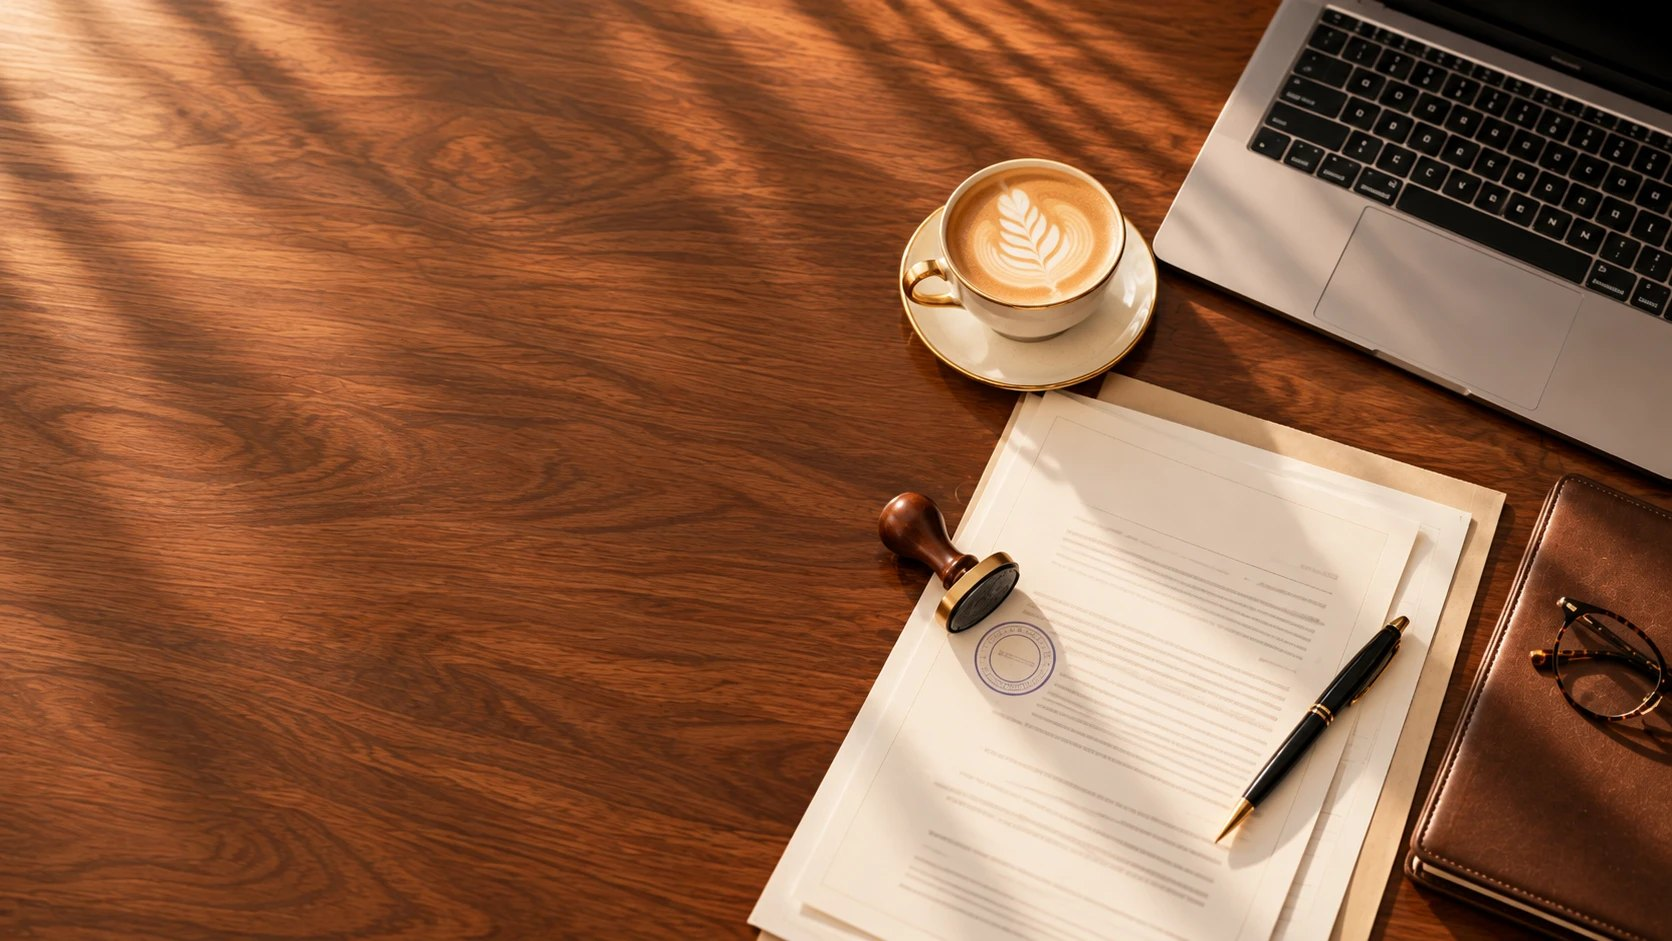
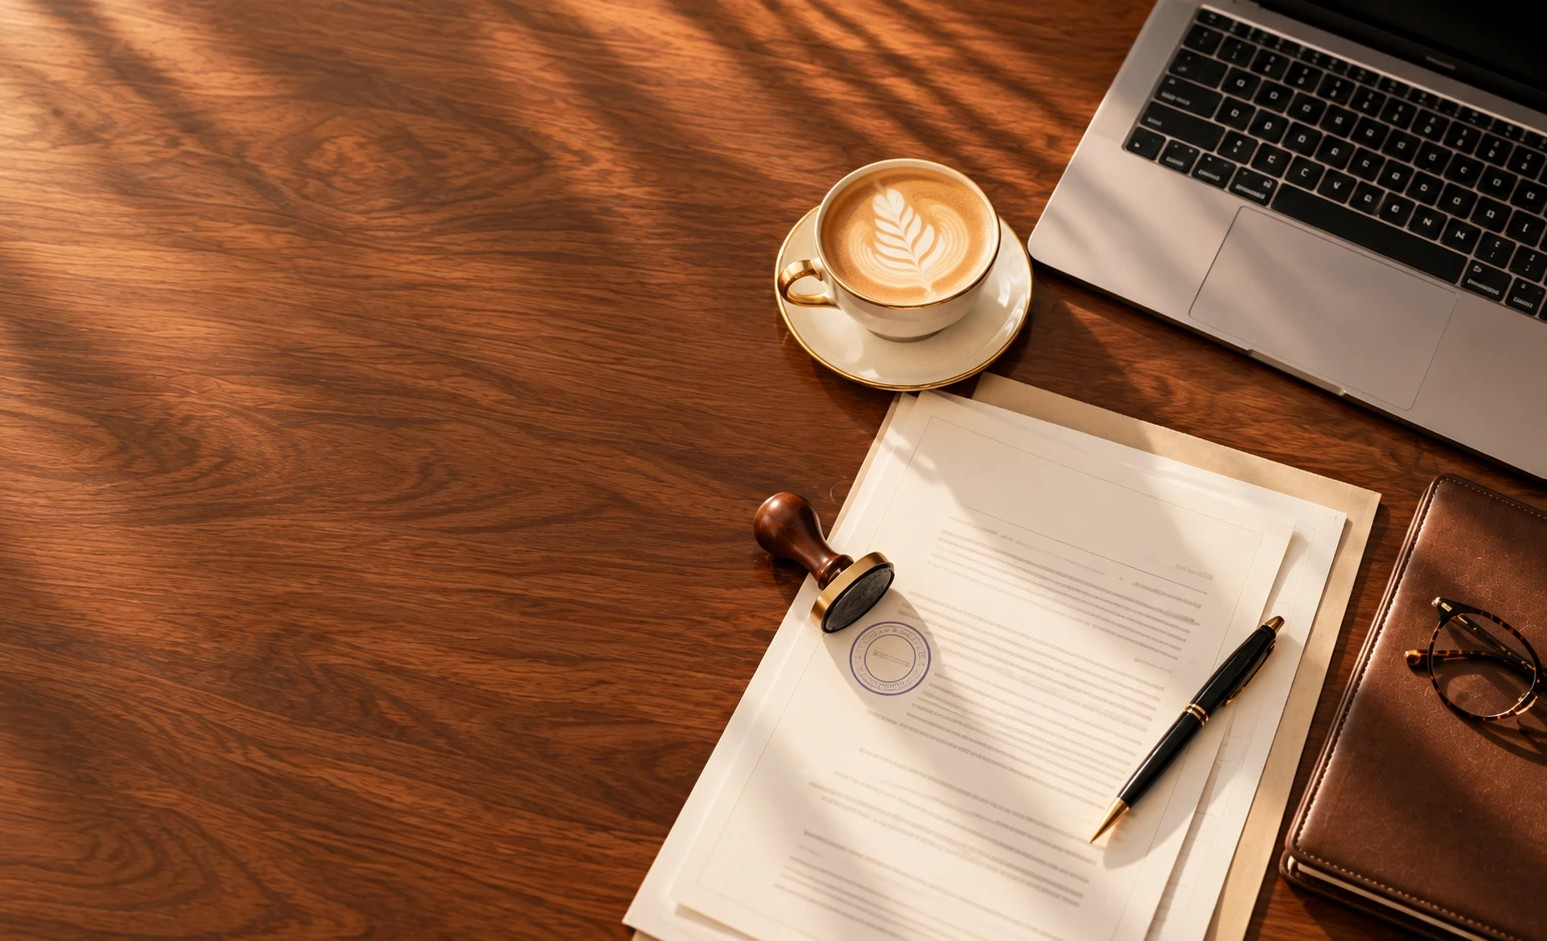
Hero photo: desk items start where the headline ends

diff --git a/styles.css b/styles.css
@@ -80,7 +80,7 @@ h1 em, h2 em { font-style: italic; color: var(--accent); }
 /* Hero */
 main { overflow-x: clip; }
 .hero { position: relative; min-height: 100svh; display: grid; grid-template-columns: 1.05fr 0.95fr; align-items: center; gap: 24px; padding: 130px var(--pad) 165px; color: #fbf5ec; background: #14161b; overflow: clip; }
-.hero-bg { position: absolute; inset: 0; background: url("assets/hero-desk.jpg") right center / cover no-repeat; }
+.hero-bg { position: absolute; inset: 0; background: url("assets/hero-desk.jpg?v=43") right center / cover no-repeat; }
 .hero::before { content: ""; position: absolute; inset: 0; z-index: 1; background: linear-gradient(0deg, rgba(38, 20, 8, 0.5) 0%, rgba(38, 20, 8, 0) 32%), linear-gradient(90deg, rgba(38, 20, 8, 0.66) 0%, rgba(38, 20, 8, 0.42) 48%, rgba(38, 20, 8, 0.16) 100%); }
 /* Warm variation of the photo, previewed with ?warm in the address */
 .hero.warm .hero-bg { filter: sepia(0.7) saturate(1.6) hue-rotate(-10deg) brightness(1.22) contrast(0.94); }

diff --git a/index.html b/index.html
@@ -11,7 +11,7 @@
 <link rel="preconnect" href="https://fonts.googleapis.com">
 <link rel="preconnect" href="https://fonts.gstatic.com" crossorigin>
 <link href="https://fonts.googleapis.com/css2?family=Fraunces:ital,opsz,wght@0,9..144,300;0,9..144,400;1,9..144,300;1,9..144,400&family=DM+Sans:wght@400;500&family=DM+Mono:wght@400&display=swap" rel="stylesheet">
-<link rel="stylesheet" href="styles.css?v=42">
+<link rel="stylesheet" href="styles.css?v=43">
 </head>
 <body>
 
@@ -253,9 +253,9 @@
 
 <a class="float-cta pill pill-accent" href="#ponuda">Zatražite ponudu</a>
 
-<script src="content.js?v=42"></script>
+<script src="content.js?v=43"></script>
 <script src="https://cdn.jsdelivr.net/npm/topojson-client@3.1.0/dist/topojson-client.min.js"></script>
-<script src="globe.js?v=42"></script>
-<script src="app.js?v=42"></script>
+<script src="globe.js?v=43"></script>
+<script src="app.js?v=43"></script>
 </body>
 </html>
